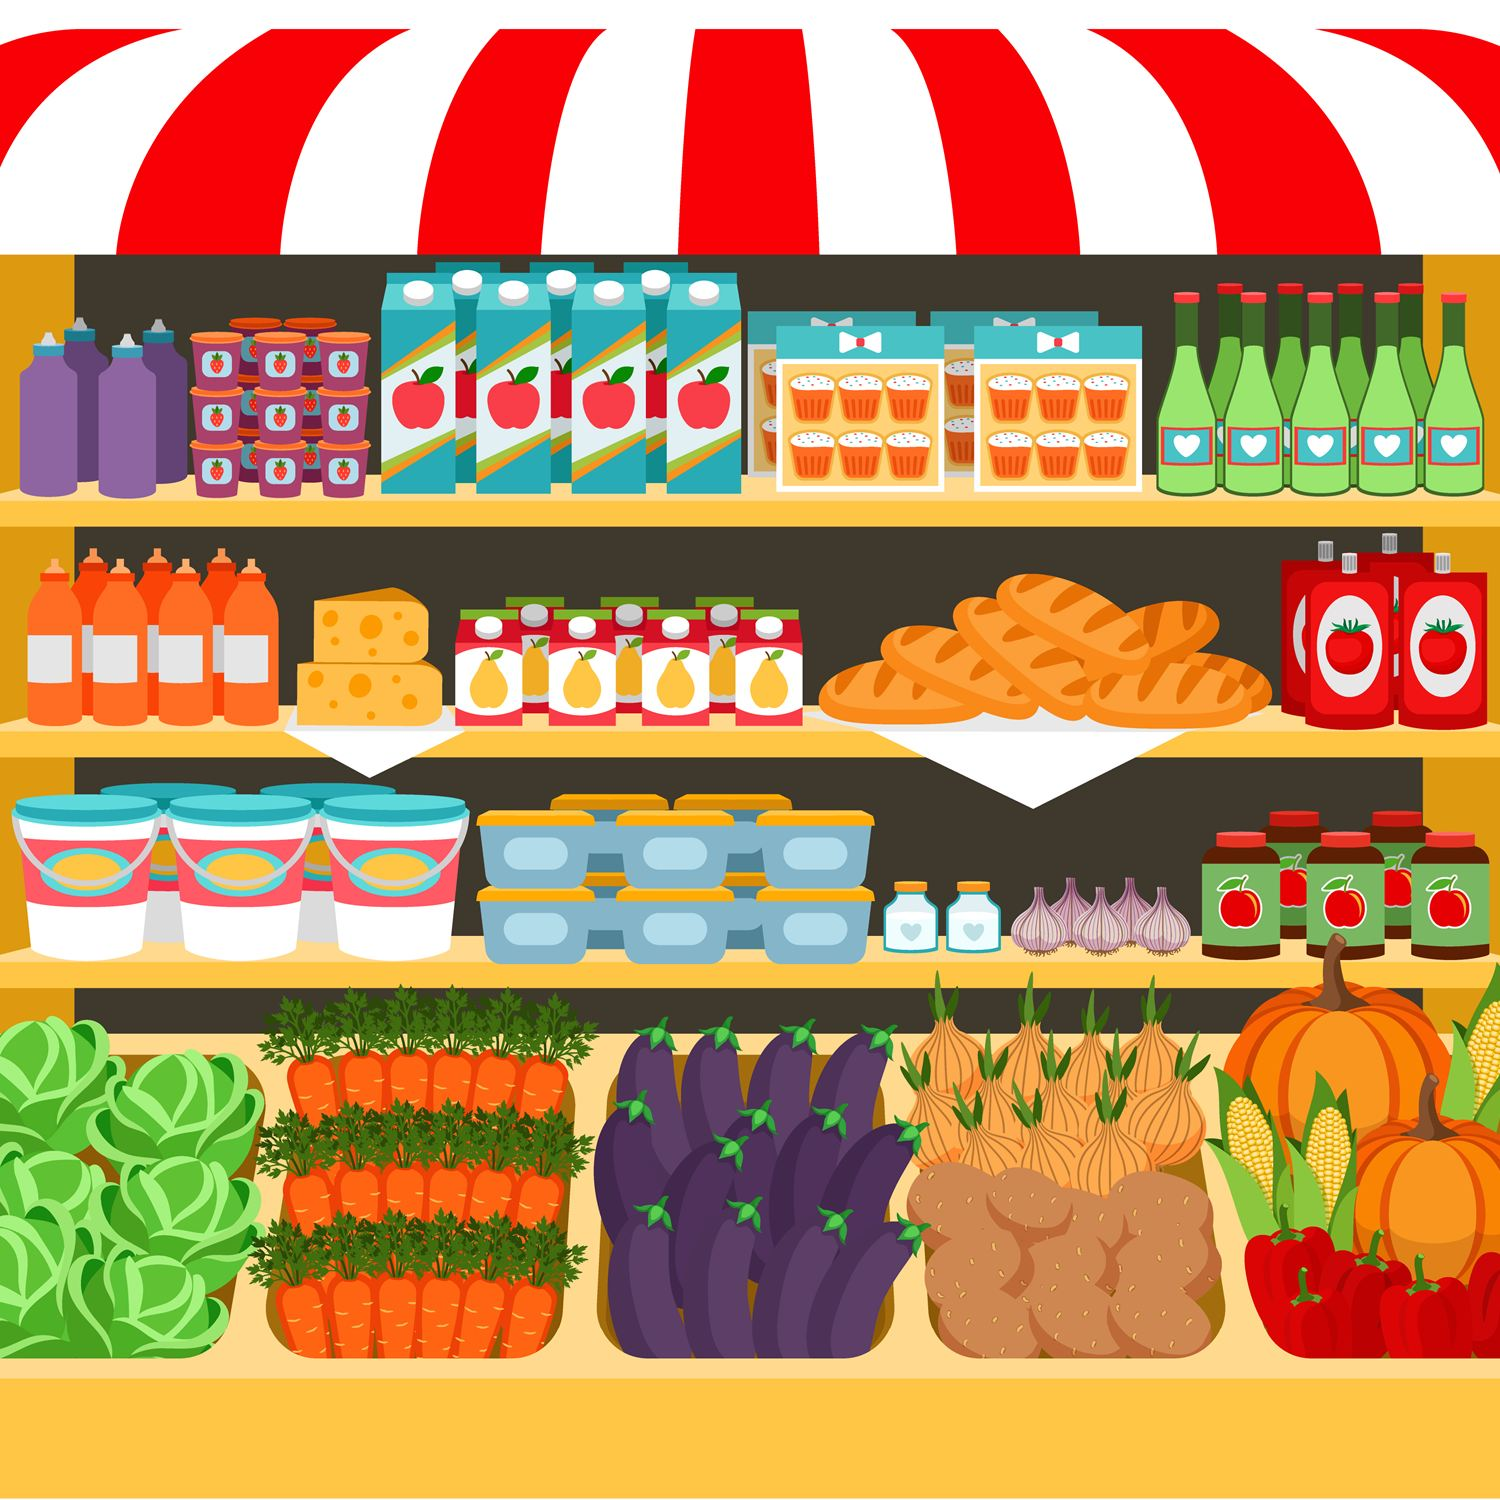
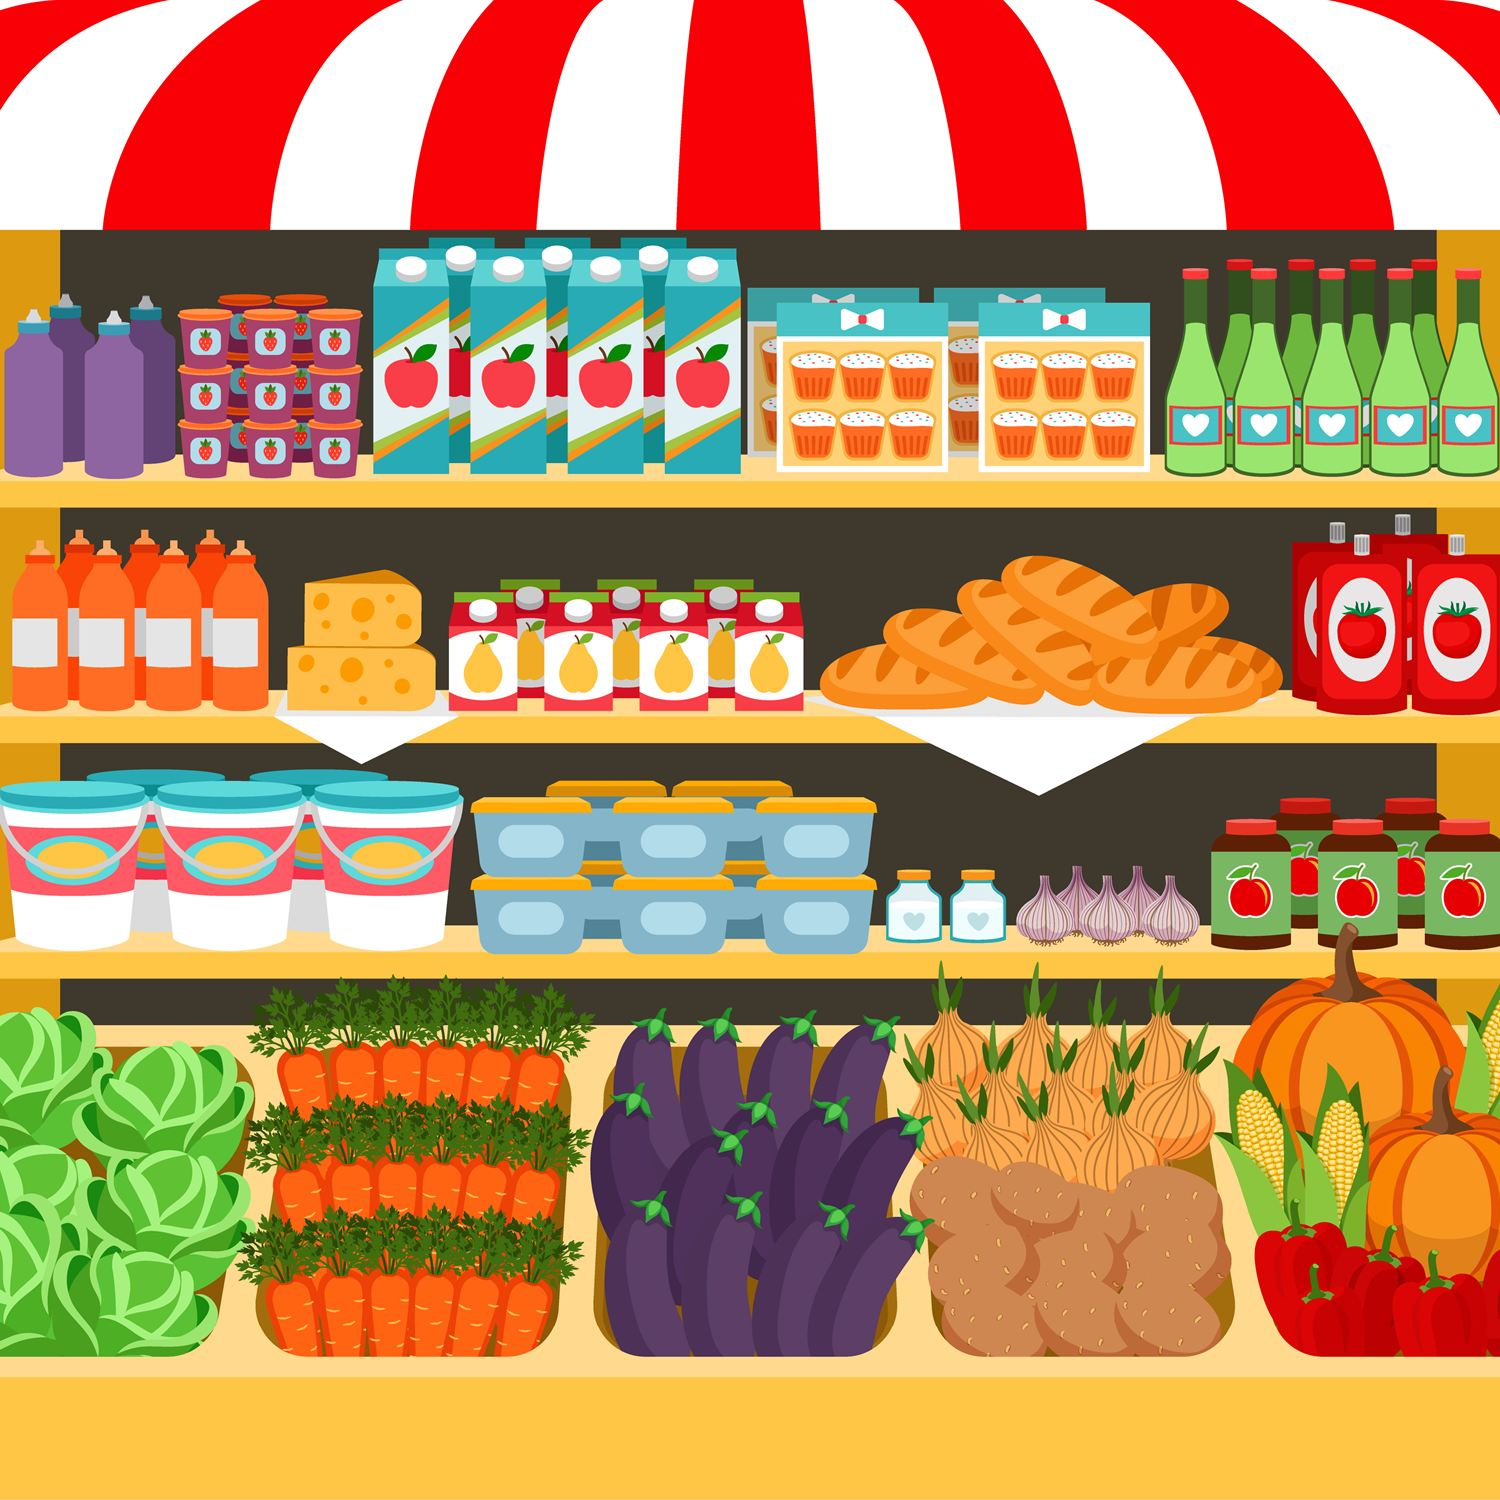
fix: update files in module login

diff --git a/src/pages/auth/AuthLayout.tsx b/src/pages/auth/AuthLayout.tsx
@@ -2,7 +2,7 @@ import { Store } from 'lucide-react'
 import type { ReactNode } from 'react'
 import { useTranslation } from 'react-i18next'
 
-import { PreferencesMenu } from '@/preferences/PreferencesMenu'
+import { PreferenceToggles } from '@/preferences/PreferenceToggles'
 
 // Read once: the footer doesn't need to change at midnight on New Year's Eve.
 const YEAR = new Date().getFullYear()
@@ -12,24 +12,26 @@ const YEAR = new Date().getFullYear()
 const PHOTO_URL = `${import.meta.env.BASE_URL}auth/grocery-store.jpg`
 const WAVE_ID = 'auth-photo-wave'
 
-// Sign-in screens: one white page whatever the theme (light-scope), the form on the left and the
-// store illustration along the right edge (wide screens only).
+// Sign-in screens: the form on the left and the store illustration along the right edge (wide
+// screens only). Light or dark from the toggles in the header.
 export function AuthLayout({ children }: { children: ReactNode }) {
   const { t } = useTranslation()
 
   return (
-    <div className="light-scope relative min-h-svh overflow-hidden bg-background text-foreground">
+    <div className="relative flex min-h-svh flex-col overflow-hidden bg-background text-foreground">
       <WavePhoto />
-      <div className="relative flex min-h-svh flex-col px-4 py-6 sm:px-8 lg:w-1/2 lg:px-12">
-        <header className="flex items-center justify-between">
-          <span className="flex items-center gap-2.5">
-            <span className="flex size-9 items-center justify-center rounded-lg bg-primary text-primary-foreground shadow-sm">
-              <Store className="size-5" />
-            </span>
-            <span className="text-base font-semibold tracking-tight">{t('app.name')}</span>
+      {/* Full width, so the toggles sit above the illustration instead of crowding the form's column. */}
+      <header className="relative flex items-center justify-between gap-4 px-4 py-6 sm:px-8 lg:px-12">
+        <span className="flex items-center gap-2.5">
+          <span className="flex size-9 items-center justify-center rounded-lg bg-primary text-primary-foreground shadow-sm">
+            <Store className="size-5" />
           </span>
-          <PreferencesMenu />
-        </header>
+          {/* Phones only have room for the logo next to the toggles. */}
+          <span className="hidden text-base font-semibold tracking-tight whitespace-nowrap sm:inline">{t('app.name')}</span>
+        </span>
+        <PreferenceToggles />
+      </header>
+      <div className="relative flex flex-1 flex-col px-4 pb-6 sm:px-8 lg:w-1/2 lg:px-12">
         <main className="mx-auto flex w-full max-w-sm flex-1 flex-col justify-center py-10">
           {children}
         </main>
@@ -41,7 +43,7 @@ export function AuthLayout({ children }: { children: ReactNode }) {
 
 export function AuthHeading({ icon, title, description }: { icon?: ReactNode; title: string; description: ReactNode }) {
   return (
-    <div className="mb-8 grid gap-2">
+    <div className="mb-8 grid gap-2 text-center">
       {icon && (
         // The icon's size is set here, so every sign-in screen matches.
         <span className="mb-6 flex size-16 items-center justify-self-center justify-center rounded-2xl bg-primary text-primary-foreground shadow-sm [&>svg]:size-8">{icon}</span>
@@ -52,8 +54,8 @@ export function AuthHeading({ icon, title, description }: { icon?: ReactNode; ti
   )
 }
 
-// Along the page's right edge, past the form's column, with a margin above and below; its left
-// edge is a wave. Anchored to the top so the awning stays in view. Without the file, a faint tint shows.
+// Along the page's right edge, past the form's column, from below the header to a margin above the
+// bottom; its left edge is a wave. Anchored to the top so the awning stays in view. Without the file, a faint tint shows.
 function WavePhoto() {
   return (
     <>
@@ -64,7 +66,7 @@ function WavePhoto() {
             C0.14,0.07 0.17,0.04 0.16,0 Z" />
         </clipPath>
       </svg>
-      <div aria-hidden className="absolute inset-y-10 right-0 hidden w-[46%] bg-current/10 bg-cover bg-top lg:block"
+      <div aria-hidden className="absolute top-24 right-0 bottom-10 hidden w-[46%] bg-current/10 bg-cover bg-top lg:block"
         style={{ clipPath: `url(#${WAVE_ID})`, backgroundImage: `url(${PHOTO_URL})` }} />
     </>
   )

diff --git a/src/preferences/PreferenceToggles.tsx b/src/preferences/PreferenceToggles.tsx
@@ -1,0 +1,64 @@
+import { Moon, Sun } from 'lucide-react'
+import { useTheme } from 'next-themes'
+import type { ReactNode } from 'react'
+import { useTranslation } from 'react-i18next'
+
+import { currentLanguage, languages } from '@/i18n'
+import { cn } from '@/lib/utils'
+
+// Compact language (EN/ES) and light/dark switches for the sign-in screens. Same storage as
+// PreferencesMenu, so the choice carries over to the app until changed again; Oxford counts as dark
+// here, and System shows whichever the OS resolved to.
+export function PreferenceToggles() {
+  const { t, i18n } = useTranslation()
+  const { resolvedTheme, setTheme } = useTheme()
+  const language = currentLanguage()
+  const dark = resolvedTheme !== undefined && resolvedTheme !== 'light'
+
+  return (
+    <div className="flex items-center gap-2">
+      <Segmented label={t('preferences.language')}>
+        {languages.map((option) => (
+          <SegmentButton key={option} active={language === option} label={t(`preferences.languages.${option}`)}
+            onClick={() => void i18n.changeLanguage(option)}>
+            {option.toUpperCase()}
+          </SegmentButton>
+        ))}
+      </Segmented>
+      <Segmented label={t('preferences.theme')}>
+        <SegmentButton active={!dark} label={t('preferences.modes.light')} onClick={() => setTheme('light')}>
+          <Sun />{t('preferences.modes.light')}
+        </SegmentButton>
+        <SegmentButton active={dark} label={t('preferences.modes.dark')} onClick={() => setTheme('dark')}>
+          <Moon />{t('preferences.modes.dark')}
+        </SegmentButton>
+      </Segmented>
+    </div>
+  )
+}
+
+function Segmented({ label, children }: { label: string; children: ReactNode }) {
+  return (
+    <div role="group" aria-label={label} className="inline-flex rounded-lg border bg-muted p-0.5">
+      {children}
+    </div>
+  )
+}
+
+function SegmentButton({ active, label, onClick, children }: {
+  active: boolean
+  label: string
+  onClick: () => void
+  children: ReactNode
+}) {
+  return (
+    <button type="button" aria-pressed={active} aria-label={label} onClick={onClick}
+      className={cn(
+        'inline-flex h-7 items-center gap-1.5 rounded-md px-2.5 text-xs font-medium transition-colors outline-none',
+        'focus-visible:ring-3 focus-visible:ring-ring/50 [&_svg]:size-3.5',
+        active ? 'bg-background text-foreground shadow-sm' : 'text-muted-foreground hover:text-foreground',
+      )}>
+      {children}
+    </button>
+  )
+}

diff --git a/src/index.css b/src/index.css
@@ -3,8 +3,8 @@
 @import "shadcn/tailwind.css";
 @import "@fontsource-variable/geist";
 
-/* Oxford is a dark theme too, so dark: utilities apply to it; never inside .light-scope. */
-@custom-variant dark (&:is(.dark *, .oxford *):not(.light-scope *));
+/* Oxford is a dark theme too, so dark: utilities apply to it. */
+@custom-variant dark (&:is(.dark *, .oxford *));
 
 @theme inline {
     --font-heading: var(--font-sans);
@@ -49,8 +49,7 @@
     --radius-4xl: calc(var(--radius) * 2.6);
 }
 
-/* .light-scope keeps a subtree light whatever the theme (the sign-in screens). */
-:root, .light-scope {
+:root {
     --background: oklch(1 0 0);
     --foreground: oklch(0.145 0 0);
     --card: oklch(1 0 0);
@@ -169,8 +168,4 @@
   html {
     @apply font-sans;
     }
-}
-
-.light-scope {
-    color-scheme: light;
 }

diff --git a/src/i18n/locales/es.ts b/src/i18n/locales/es.ts
@@ -16,6 +16,7 @@ export const es: Messages = {
     theme: 'Tema',
     languages: { en: 'English', es: 'Español' },
     themes: { system: 'Sistema', light: 'Claro', dark: 'Oscuro', oxford: 'Azul Oxford' },
+    modes: { light: 'Blanco', dark: 'Negro' },
   },
   login: {
     title: 'Bienvenido de nuevo',

diff --git a/src/i18n/locales/en.ts b/src/i18n/locales/en.ts
@@ -15,6 +15,7 @@ export const en = {
     theme: 'Theme',
     languages: { en: 'English', es: 'Español' },
     themes: { system: 'System', light: 'Light', dark: 'Dark', oxford: 'Oxford blue' },
+    modes: { light: 'Light', dark: 'Dark' },
   },
   login: {
     title: 'Welcome back',
